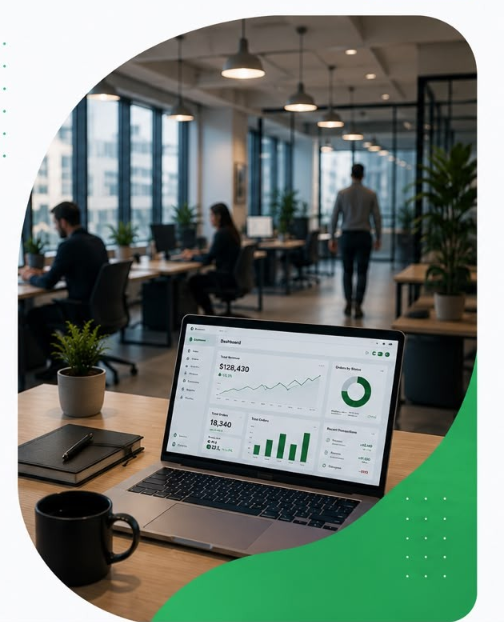
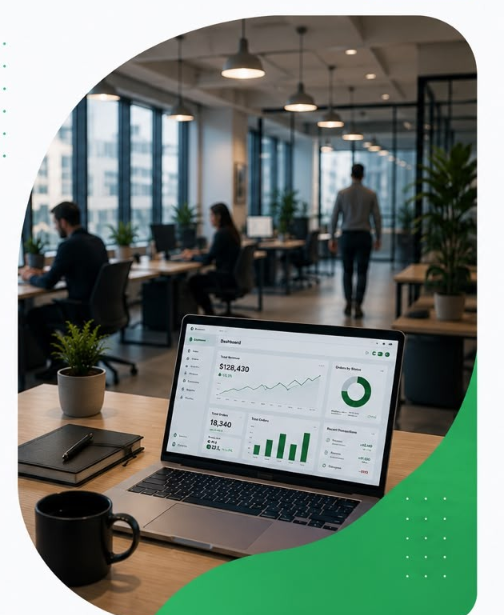
fix: Separate Hero and Features sections into independent non-overlapping containers with standard section padding

diff --git a/src/components/landing/HeroSection.tsx b/src/components/landing/HeroSection.tsx
@@ -9,7 +9,7 @@ interface HeroSectionProps {
 
 export const HeroSection: React.FC<HeroSectionProps> = ({ onLogin }) => {
   return (
-    <section id="home" className="w-full bg-white font-sans scroll-mt-24 pt-4 lg:pt-8 pb-8 lg:pb-12">
+    <section id="home" className="w-full bg-white font-sans scroll-mt-24 pt-8 lg:pt-12 pb-16 lg:pb-24 border-b border-slate-100/60 overflow-hidden">
       <div className="w-full max-w-[1240px] mx-auto px-6 sm:px-10 lg:px-12 relative">
         <div className="grid grid-cols-1 lg:grid-cols-12 gap-10 lg:gap-12 items-center relative">
           
@@ -66,18 +66,18 @@ export const HeroSection: React.FC<HeroSectionProps> = ({ onLogin }) => {
             <DottedGrid cols={3} rows={6} color="#2DD4BF" />
           </div>
 
-          {/* Right Column - Hero Visual Graphic */}
+          {/* Right Column - Hero Visual Graphic (Self-contained, non-overlapping) */}
           <motion.div 
             initial={{ opacity: 0, x: 20 }}
             animate={{ opacity: 1, x: 0 }}
             transition={{ duration: 0.5, ease: "easeOut" }}
             className="lg:col-span-6 xl:col-span-6 relative flex justify-center lg:justify-end z-10"
           >
-            <div className="relative w-full max-w-[620px] flex justify-end">
+            <div className="relative w-full max-w-[580px] lg:max-w-[620px] flex justify-end">
               <img
                 src="/hero-image.png"
                 alt="Obrain ERP Platform Illustration"
-                className="w-full h-auto object-contain select-none pointer-events-none max-h-[640px] drop-shadow-xl"
+                className="w-full h-auto object-contain select-none pointer-events-none drop-shadow-xl"
               />
             </div>
           </motion.div>

diff --git a/src/components/landing/FeaturesSection.tsx b/src/components/landing/FeaturesSection.tsx
@@ -3,7 +3,7 @@ import { motion } from 'framer-motion';
 
 export const FeaturesSection: React.FC = () => {
   return (
-    <section id="features" className="w-full bg-white pt-2 lg:pt-6 pb-16 lg:pb-24 font-sans scroll-mt-24">
+    <section id="features" className="w-full bg-white pt-16 lg:pt-24 pb-20 lg:pb-28 font-sans scroll-mt-24 overflow-hidden">
       <div className="w-full max-w-[1240px] mx-auto px-6 sm:px-10 lg:px-12">
         
         {/* Top Header Row (Left Text + Right Graph Illustration) */}
@@ -42,7 +42,7 @@ export const FeaturesSection: React.FC = () => {
           </div>
         </motion.div>
 
-        {/* 3 Feature Cards (Matching exact target reference image proportions) */}
+        {/* 3 Feature Cards */}
         <div className="grid grid-cols-1 md:grid-cols-3 gap-6 lg:gap-8 mt-12 lg:mt-16">
           
           {/* Card 1: Finance Management */}
